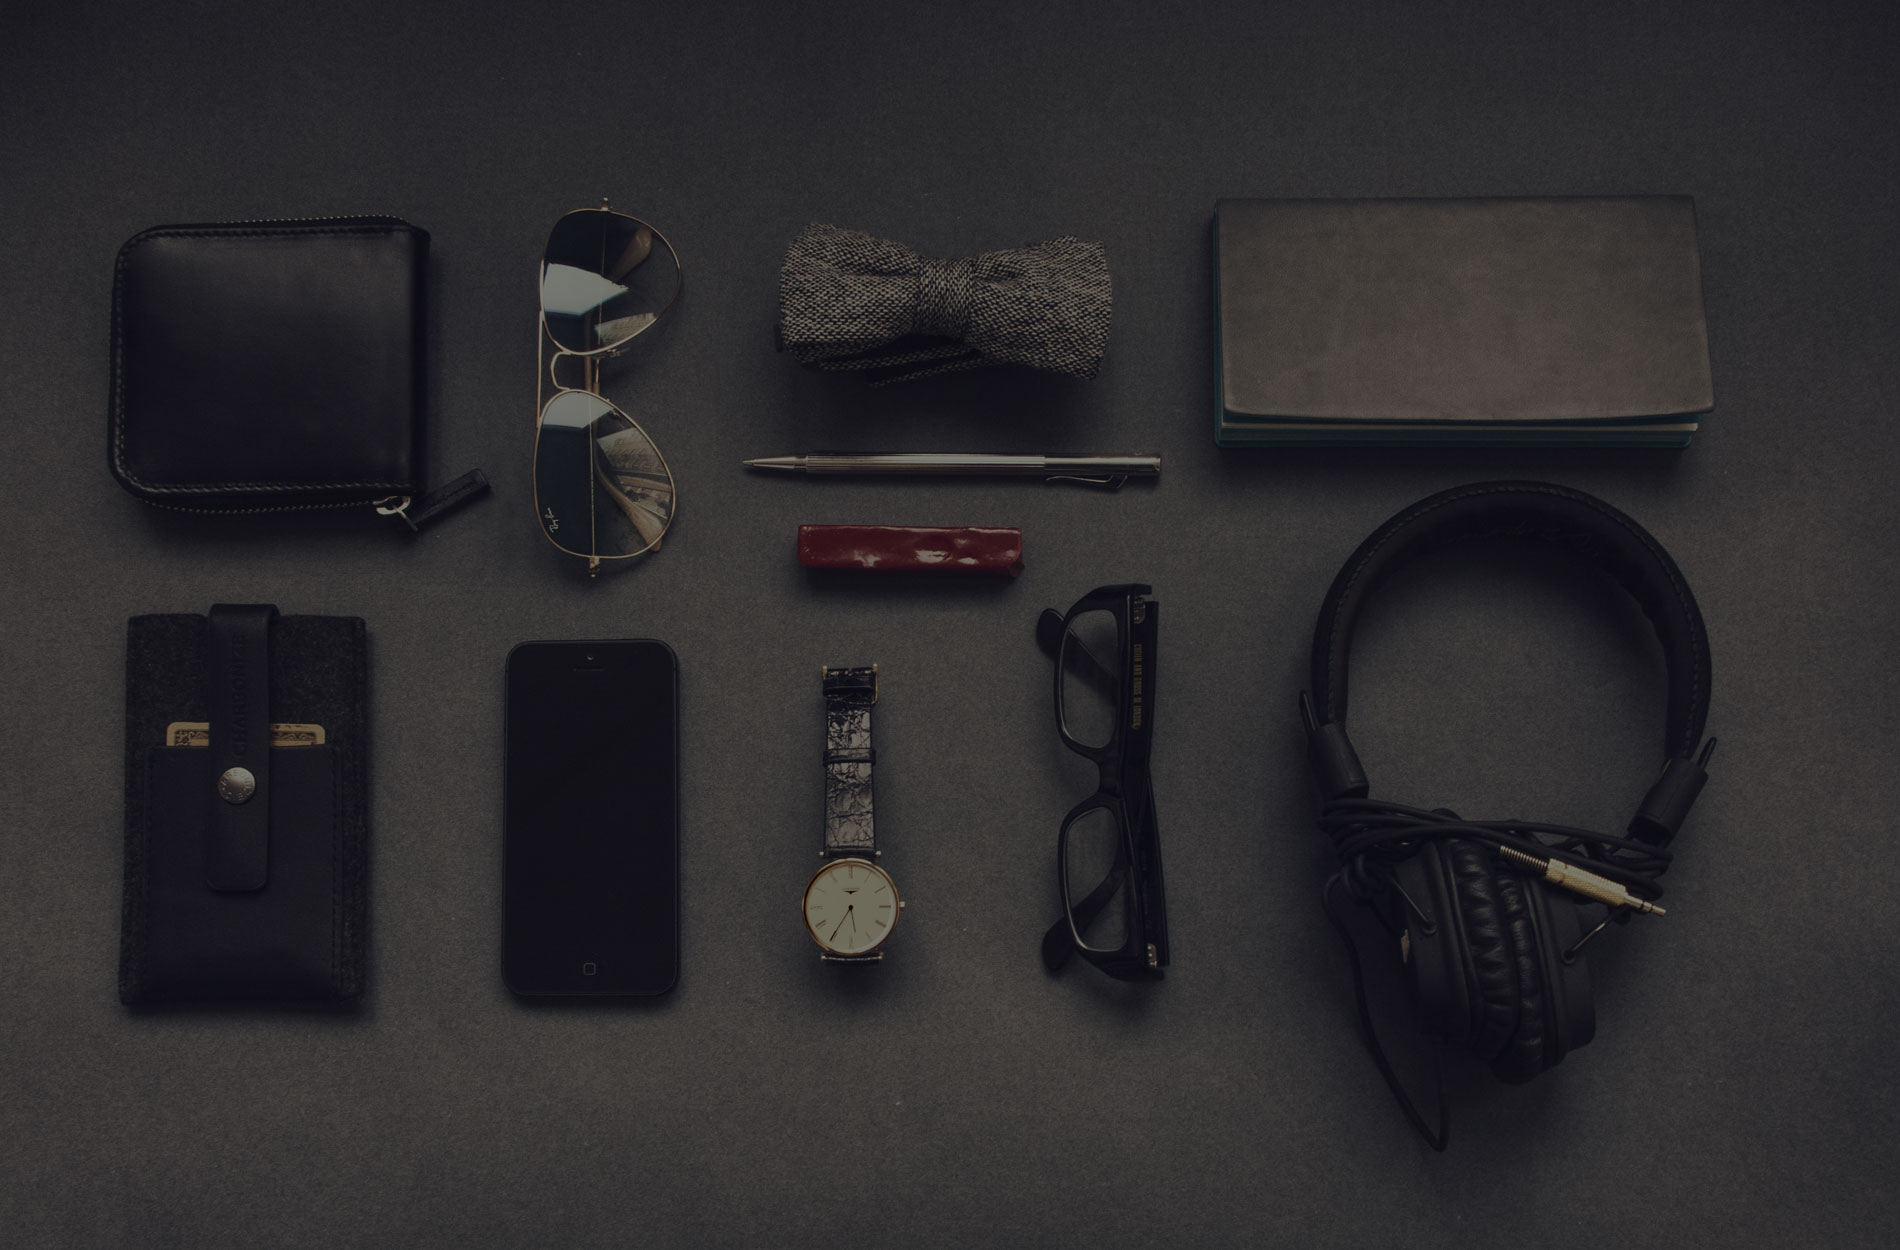
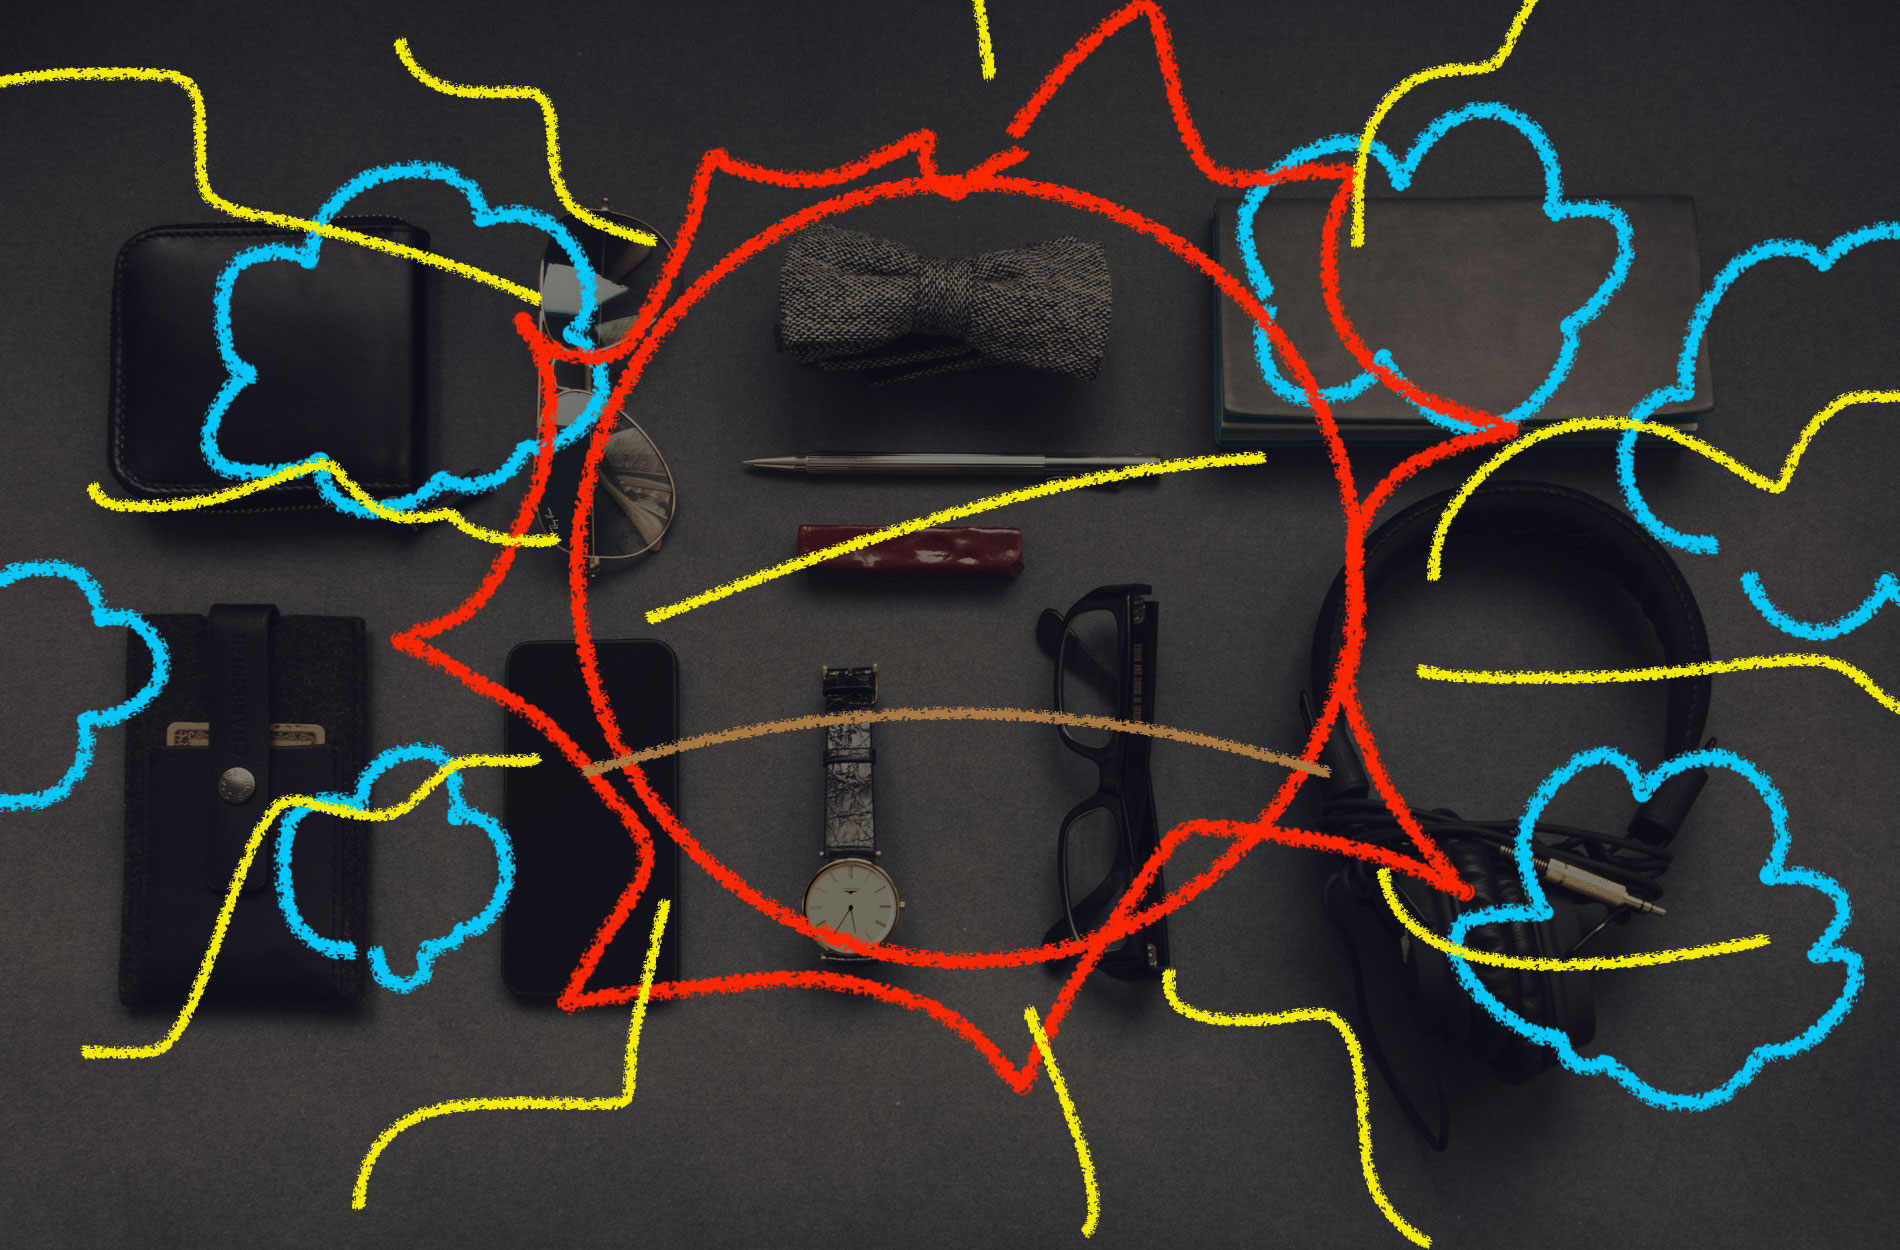
..

diff --git a/index.html b/index.html
@@ -27,9 +27,8 @@
                 </button>
                 <div class="collapse navbar-collapse" id="navbarResponsive">
                     <ul class="navbar-nav text-uppercase ms-auto py-4 py-lg-0">
-                        <li class="nav-item"><a class="nav-link" href="#services">Services</a></li>
+                        <li class="nav-item"><a class="nav-link" href="#services">servies</a></li>
                         <li class="nav-item"><a class="nav-link" href="#portfolio">Portfolio</a></li>
-                        <li class="nav-item"><a class="nav-link" href="#about">About</a></li>
                         <li class="nav-item"><a class="nav-link" href="#team">Team</a></li>
                         <li class="nav-item"><a class="nav-link" href="#contact">Contact</a></li>
                     </ul>
@@ -40,45 +39,11 @@
         <header class="masthead">
             <div class="container">
                 <div class="masthead-subheading">Welcome To Our Studio!</div>
-                <div class="masthead-heading text-uppercase">It's Nice To Meet You</div>
+                <div class="masthead-heading text-uppercase">쿨쿨띠 </div>
                 <a class="btn btn-primary btn-xl text-uppercase" href="#services">Tell Me More</a>
             </div>
         </header>
-        <!-- Services-->
-        <section class="page-section" id="services">
-            <div class="container">
-                <div class="text-center">
-                    <h2 class="section-heading text-uppercase">Services</h2>
-                    <h3 class="section-subheading text-muted">Lorem ipsum dolor sit amet consectetur.</h3>
-                </div>
-                <div class="row text-center">
-                    <div class="col-md-4">
-                        <span class="fa-stack fa-4x">
-                            <i class="fas fa-circle fa-stack-2x text-primary"></i>
-                            <i class="fas fa-shopping-cart fa-stack-1x fa-inverse"></i>
-                        </span>
-                        <h4 class="my-3">E-Commerce</h4>
-                        <p class="text-muted">Lorem ipsum dolor sit amet, consectetur adipisicing elit. Minima maxime quam architecto quo inventore harum ex magni, dicta impedit.</p>
-                    </div>
-                    <div class="col-md-4">
-                        <span class="fa-stack fa-4x">
-                            <i class="fas fa-circle fa-stack-2x text-primary"></i>
-                            <i class="fas fa-laptop fa-stack-1x fa-inverse"></i>
-                        </span>
-                        <h4 class="my-3">Responsive Design</h4>
-                        <p class="text-muted">Lorem ipsum dolor sit amet, consectetur adipisicing elit. Minima maxime quam architecto quo inventore harum ex magni, dicta impedit.</p>
-                    </div>
-                    <div class="col-md-4">
-                        <span class="fa-stack fa-4x">
-                            <i class="fas fa-circle fa-stack-2x text-primary"></i>
-                            <i class="fas fa-lock fa-stack-1x fa-inverse"></i>
-                        </span>
-                        <h4 class="my-3">Web Security</h4>
-                        <p class="text-muted">Lorem ipsum dolor sit amet, consectetur adipisicing elit. Minima maxime quam architecto quo inventore harum ex magni, dicta impedit.</p>
-                    </div>
-                </div>
-            </div>
-        </section>
+
         <!-- Portfolio Grid-->
         <section class="page-section bg-light" id="portfolio">
             <div class="container">
@@ -180,6 +145,41 @@
                 </div>
             </div>
         </section>
+        <!-- Services-->
+        <section class="page-section" id="services">
+            <div class="container">
+                <div class="text-center">
+                    <h2 class="section-heading text-uppercase">Services</h2>
+                    <h3 class="section-subheading text-muted">Lorem ipsum dolor sit amet consectetur.</h3>
+                </div>
+                <div class="row text-center">
+                    <div class="col-md-4">
+                        <span class="fa-stack fa-4x">
+                            <i class="fas fa-circle fa-stack-2x text-primary"></i>
+                            <i class="fas fa-shopping-cart fa-stack-1x fa-inverse"></i>
+                        </span>
+                        <h4 class="my-3">E-Commerce</h4>
+                        <p class="text-muted">Lorem ipsum dolor sit amet, consectetur adipisicing elit. Minima maxime quam architecto quo inventore harum ex magni, dicta impedit.</p>
+                    </div>
+                    <div class="col-md-4">
+                        <span class="fa-stack fa-4x">
+                            <i class="fas fa-circle fa-stack-2x text-primary"></i>
+                            <i class="fas fa-laptop fa-stack-1x fa-inverse"></i>
+                        </span>
+                        <h4 class="my-3">Responsive Design</h4>
+                        <p class="text-muted">Lorem ipsum dolor sit amet, consectetur adipisicing elit. Minima maxime quam architecto quo inventore harum ex magni, dicta impedit.</p>
+                    </div>
+                    <div class="col-md-4">
+                        <span class="fa-stack fa-4x">
+                            <i class="fas fa-circle fa-stack-2x text-primary"></i>
+                            <i class="fas fa-lock fa-stack-1x fa-inverse"></i>
+                        </span>
+                        <h4 class="my-3">Web Security</h4>
+                        <p class="text-muted">Lorem ipsum dolor sit amet, consectetur adipisicing elit. Minima maxime quam architecto quo inventore harum ex magni, dicta impedit.</p>
+                    </div>
+                </div>
+            </div>
+        </section>
         <!-- About-->
         <section class="page-section" id="about">
             <div class="container">
@@ -246,7 +246,7 @@
         <section class="page-section bg-light" id="team">
             <div class="container">
                 <div class="text-center">
-                    <h2 class="section-heading text-uppercase">Our Amazing Team</h2>
+                    <h2 class="section-heading text-uppercase"> Amazing Myself</h2>
                     <h3 class="section-subheading text-muted">Lorem ipsum dolor sit amet consectetur.</h3>
                 </div>
                 <div class="row">
@@ -258,26 +258,6 @@
                             <a class="btn btn-dark btn-social mx-2" href="#!" aria-label="Parveen Anand Twitter Profile"><i class="fab fa-twitter"></i></a>
                             <a class="btn btn-dark btn-social mx-2" href="#!" aria-label="Parveen Anand Facebook Profile"><i class="fab fa-facebook-f"></i></a>
                             <a class="btn btn-dark btn-social mx-2" href="#!" aria-label="Parveen Anand LinkedIn Profile"><i class="fab fa-linkedin-in"></i></a>
-                        </div>
-                    </div>
-                    <div class="col-lg-4">
-                        <div class="team-member">
-                            <img class="mx-auto rounded-circle" src="assets/img/team/2.jpg" alt="..." />
-                            <h4>Diana Petersen</h4>
-                            <p class="text-muted">Lead Marketer</p>
-                            <a class="btn btn-dark btn-social mx-2" href="#!" aria-label="Diana Petersen Twitter Profile"><i class="fab fa-twitter"></i></a>
-                            <a class="btn btn-dark btn-social mx-2" href="#!" aria-label="Diana Petersen Facebook Profile"><i class="fab fa-facebook-f"></i></a>
-                            <a class="btn btn-dark btn-social mx-2" href="#!" aria-label="Diana Petersen LinkedIn Profile"><i class="fab fa-linkedin-in"></i></a>
-                        </div>
-                    </div>
-                    <div class="col-lg-4">
-                        <div class="team-member">
-                            <img class="mx-auto rounded-circle" src="assets/img/team/3.jpg" alt="..." />
-                            <h4>Larry Parker</h4>
-                            <p class="text-muted">Lead Developer</p>
-                            <a class="btn btn-dark btn-social mx-2" href="#!" aria-label="Larry Parker Twitter Profile"><i class="fab fa-twitter"></i></a>
-                            <a class="btn btn-dark btn-social mx-2" href="#!" aria-label="Larry Parker Facebook Profile"><i class="fab fa-facebook-f"></i></a>
-                            <a class="btn btn-dark btn-social mx-2" href="#!" aria-label="Larry Parker LinkedIn Profile"><i class="fab fa-linkedin-in"></i></a>
                         </div>
                     </div>
                 </div>

diff --git a/css/styles.css b/css/styles.css
@@ -10926,7 +10926,7 @@ p {
   #mainNav.navbar-shrink {
     padding-top: 1rem;
     padding-bottom: 1rem;
-    background-color: #212529;
+    background-color: #0879909;
   }
   #mainNav.navbar-shrink .navbar-brand {
     font-size: 1.25em;
